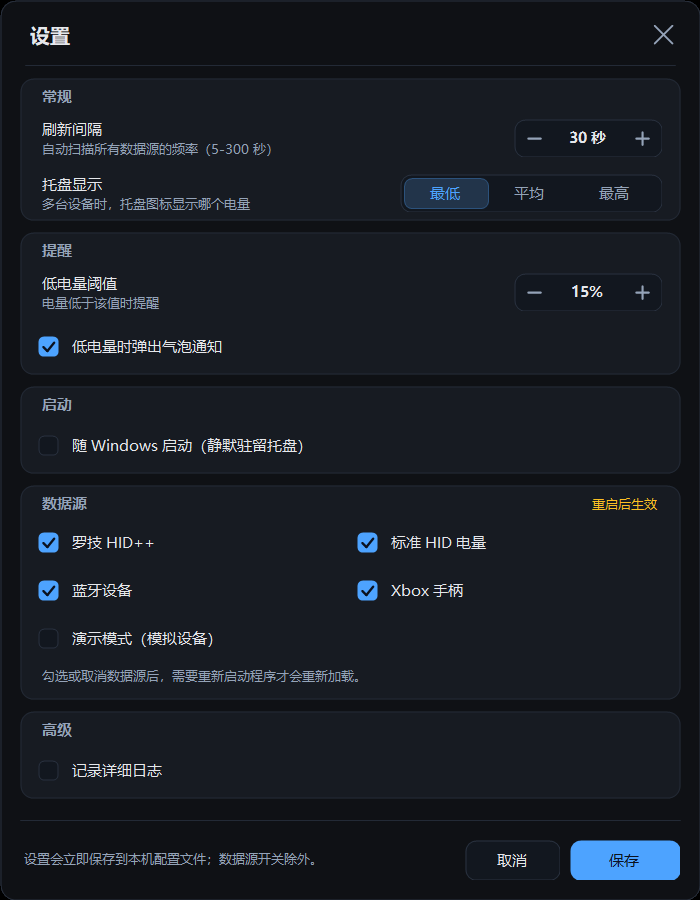
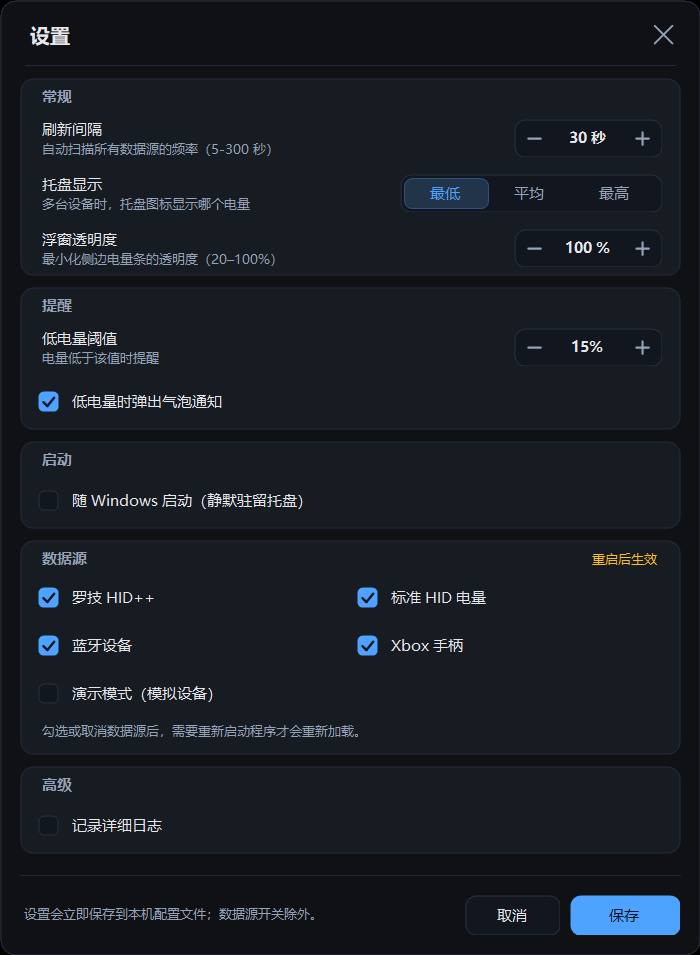
feat: configurable edge bar opacity (v1.8.0)

diff --git a/src/App/SettingsForm.cs b/src/App/SettingsForm.cs
@@ -12,7 +12,7 @@ namespace Pb.App
     internal sealed class SettingsForm : ChromeForm
     {
         private const int LogicalWidth = 560;
-        private const int LogicalHeight = 720;
+        private const int LogicalHeight = 764;
         private const int Pad = 16;
         private const int CardPad = 14;
         private const int HeaderH = 26;
@@ -35,6 +35,7 @@ namespace Pb.App
 
         private readonly Stepper _stepRefresh;
         private readonly Stepper _stepLow;
+        private readonly Stepper _stepOpacity;
         private readonly SegmentControl _segTray;
         private readonly DarkCheckBox _chkBalloon;
         private readonly DarkCheckBox _chkAutoStart;
@@ -70,6 +71,14 @@ namespace Pb.App
             _segTray = new SegmentControl();
             _segTray.Items = new string[] { "最低", "平均", "最高" };
             Controls.Add(_segTray);
+
+            _stepOpacity = new Stepper();
+            _stepOpacity.Minimum = 20;
+            _stepOpacity.Maximum = 100;
+            _stepOpacity.Step = 5;
+            _stepOpacity.Suffix = " %";
+            _stepOpacity.Value = config.EdgeBarOpacity;
+            Controls.Add(_stepOpacity);
 
             _stepLow = new Stepper();
             _stepLow.Minimum = 1;
@@ -169,12 +178,14 @@ namespace Pb.App
             int y = S(62);
 
             // 常规
-            Section s1 = AddSection(x, y, cw, "常规", 2, RowH, null, null);
+            Section s1 = AddSection(x, y, cw, "常规", 3, RowH, null, null);
             y = s1.Rect.Bottom + S(GapY);
             int row = s1.Rect.Top + S(HeaderH);
             _stepRefresh.Bounds = new Rectangle(x + cw - S(CardPad) - S(118), row + S(7), S(118), S(30));
             row += S(RowH);
             _segTray.Bounds = new Rectangle(x + cw - S(CardPad) - S(210), row + S(7), S(210), S(30));
+            row += S(RowH);
+            _stepOpacity.Bounds = new Rectangle(x + cw - S(CardPad) - S(118), row + S(7), S(118), S(30));
 
             // 提醒
             Section s2 = AddSection(x, y, cw, "提醒", 2, RowH, null, null);
@@ -274,6 +285,7 @@ namespace Pb.App
             // 行标题
             DrawRowTitle(g, _sections[0].Rect, 0, "刷新间隔", "自动扫描所有数据源的频率（5-300 秒）");
             DrawRowTitle(g, _sections[0].Rect, 1, "托盘显示", "多台设备时，托盘图标显示哪个电量");
+            DrawRowTitle(g, _sections[0].Rect, 2, "浮窗透明度", "最小化侧边电量条的透明度（20–100%）");
             DrawRowTitle(g, _sections[1].Rect, 0, "低电量阈值", "电量低于该值时提醒");
             DrawRowTitle(g, _sections[1].Rect, 1, "", "");
             DrawRowTitle(g, _sections[2].Rect, 0, "", "");
@@ -310,6 +322,7 @@ namespace Pb.App
 
             _config.RefreshSeconds = _stepRefresh.Value;
             _config.TrayDisplay = TrayMode(_segTray.SelectedIndex);
+            _config.EdgeBarOpacity = _stepOpacity.Value;
             _config.LowBatteryThreshold = _stepLow.Value;
             _config.NotifyLowBattery = _chkBalloon.Checked;
             _config.StartWithWindows = _chkAutoStart.Checked;

diff --git a/src/App/EdgeBarForm.cs b/src/App/EdgeBarForm.cs
@@ -29,6 +29,7 @@ namespace Pb.App
         private int _hoverIndex = -1;
         private string _side = "right";
         private double _yRatio = 0.5;
+        private int _opacityPercent = 100;
         private bool _dragging;
         private Point _dragOffset;
         private Point _dragStartScreen;
@@ -84,12 +85,28 @@ namespace Pb.App
         public string Side { get { return _side; } }
         public double YRatio { get { return _yRatio; } }
 
-        public void Configure(string side, double yRatio)
+        public void Configure(string side, double yRatio, int opacityPercent)
         {
             if (side == "left" || side == "right") _side = side;
             if (yRatio < 0) yRatio = 0;
             if (yRatio > 1) yRatio = 1;
+            if (opacityPercent < 20) opacityPercent = 20;
+            if (opacityPercent > 100) opacityPercent = 100;
             _yRatio = yRatio;
+            _opacityPercent = opacityPercent;
+            ApplyOpacity();
+        }
+
+        private void ApplyOpacity()
+        {
+            try
+            {
+                double o = _opacityPercent / 100.0;
+                if (o < 0.2) o = 0.2;
+                if (o > 1) o = 1;
+                Opacity = o;
+            }
+            catch { }
         }
 
         private static void Fire(EventHandler h)
@@ -111,10 +128,12 @@ namespace Pb.App
             _shouldShow = true;
             UpdateSize();
             Reposition();
+            ApplyOpacity();
             if (!Visible) Show();
             // Show() 会触发 WinForms 的 DPI 自动缩放（宽度会被改掉），显示后再应用一次真实尺寸。
             UpdateSize();
             Reposition();
+            ApplyOpacity();
             _timer.Start();
             Invalidate();
         }
@@ -354,6 +373,7 @@ namespace Pb.App
                 Show();
                 UpdateSize();
                 Reposition();
+                ApplyOpacity();
             }
         }
 

diff --git a/src/Core/AppConfig.cs b/src/Core/AppConfig.cs
@@ -17,6 +17,8 @@ namespace Pb.Core
         public string EdgeBarSide { get; set; }
         /// <summary>侧边条垂直位置（0=顶部，1=底部）。</summary>
         public double EdgeBarY { get; set; }
+        /// <summary>侧边条透明度（20–100，100=不透明）。</summary>
+        public int EdgeBarOpacity { get; set; }
         public bool RunInBackground { get; set; }
         public bool EnableLogitech { get; set; }
         public bool EnableStandardHid { get; set; }
@@ -37,6 +39,7 @@ namespace Pb.Core
             TrayDisplay = "worst";
             EdgeBarSide = "right";
             EdgeBarY = 0.5;
+            EdgeBarOpacity = 100;
             RunInBackground = true;
             EnableLogitech = true;
             EnableStandardHid = true;
@@ -131,6 +134,8 @@ namespace Pb.Core
             if (EdgeBarSide != "left") EdgeBarSide = "right";
             if (EdgeBarY < 0) EdgeBarY = 0;
             if (EdgeBarY > 1) EdgeBarY = 1;
+            if (EdgeBarOpacity < 20) EdgeBarOpacity = 20;
+            if (EdgeBarOpacity > 100) EdgeBarOpacity = 100;
             if (CustomNames == null) CustomNames = new Dictionary<string, string>();
             var bad = new List<string>();
             foreach (var kv in CustomNames)

diff --git a/src/App/Program.cs b/src/App/Program.cs
@@ -120,6 +120,8 @@ namespace Pb.App
             list.Add(MakeEdgeSample(DeviceKind.Keyboard, "VGN 键盘", 68, BatteryState.Discharging));
             list.Add(MakeEdgeSample(DeviceKind.Headset, "耳机", 42, BatteryState.Discharging));
             list.Add(MakeEdgeSample(DeviceKind.Gamepad, "手柄", 100, BatteryState.Full));
+            AppConfig cfg = AppConfig.Load();
+            f.Configure(cfg.EdgeBarSide, cfg.EdgeBarY, cfg.EdgeBarOpacity);
             f.SetData(list);
             f.ShowBar(Screen.PrimaryScreen);
             Application.Run(f);

diff --git a/src/App/TrayAppContext.cs b/src/App/TrayAppContext.cs
@@ -446,7 +446,7 @@ namespace Pb.App
                     };
                 }
                 Screen scr = Screen.FromControl(_main);
-                _edgeBar.Configure(_config.EdgeBarSide, _config.EdgeBarY);
+                _edgeBar.Configure(_config.EdgeBarSide, _config.EdgeBarY, _config.EdgeBarOpacity);
                 _edgeBar.SetData(_devices);
                 _edgeBar.ShowBar(scr);
                 _main.Hide();

diff --git a/src/Core/AssemblyInfo.cs b/src/Core/AssemblyInfo.cs
@@ -6,6 +6,6 @@ using System.Runtime.InteropServices;
 [assembly: AssemblyProduct("PeripheralBattery")]
 [assembly: AssemblyCompany("PeripheralBattery")]
 [assembly: AssemblyCopyright("Copyright © 2026")]
-[assembly: AssemblyVersion("1.7.0.0")]
-[assembly: AssemblyFileVersion("1.7.0.0")]
+[assembly: AssemblyVersion("1.8.0.0")]
+[assembly: AssemblyFileVersion("1.8.0.0")]
 [assembly: ComVisible(false)]

diff --git a/src/App/UiUtil.cs b/src/App/UiUtil.cs
@@ -27,7 +27,7 @@ namespace Pb.App
                 }
             }
             catch { }
-            return "1.7.0";
+            return "1.8.0";
         }
     }
 

diff --git a/README.md b/README.md
@@ -76,7 +76,7 @@ powershell -ExecutionPolicy Bypass -File installer/install.ps1
 
 - **左键 / 双击托盘图标**：打开面板；**右键**：打开面板、立即刷新、设置、开机启动（勾选状态读注册表真实值）、诊断信息、关于、退出。
 - **重命名**：主面板点开设备卡片 → “重命名”（或右键卡片），最多 20 个字符；留空/恢复默认即可还原。
-- **设置项**：刷新间隔（5–300 秒）、托盘显示策略、低电量阈值、气泡提醒、开机启动、各数据源开关（改动需重启程序生效）、详细日志。
+- **设置项**：刷新间隔（5–300 秒）、托盘显示策略、浮窗透明度（20–100%）、低电量阈值、气泡提醒、开机启动、各数据源开关（改动需重启程序生效）、详细日志。
 - **配置与日志**：`%APPDATA%\PeripheralBattery\config.json` / `app.log`；如果该目录不可写（受限环境或绿色运行），自动改用 exe 同级的 `data\` 目录。
 - **命令行开关**（便于排障）：
   - `--tray` 静默启动到托盘
